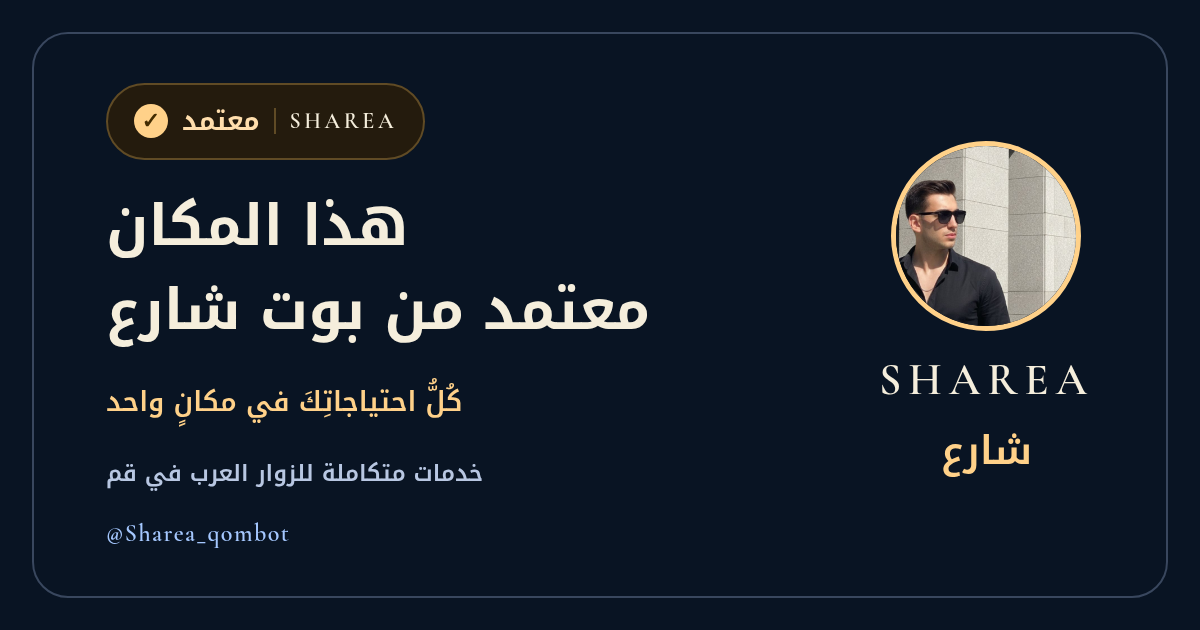
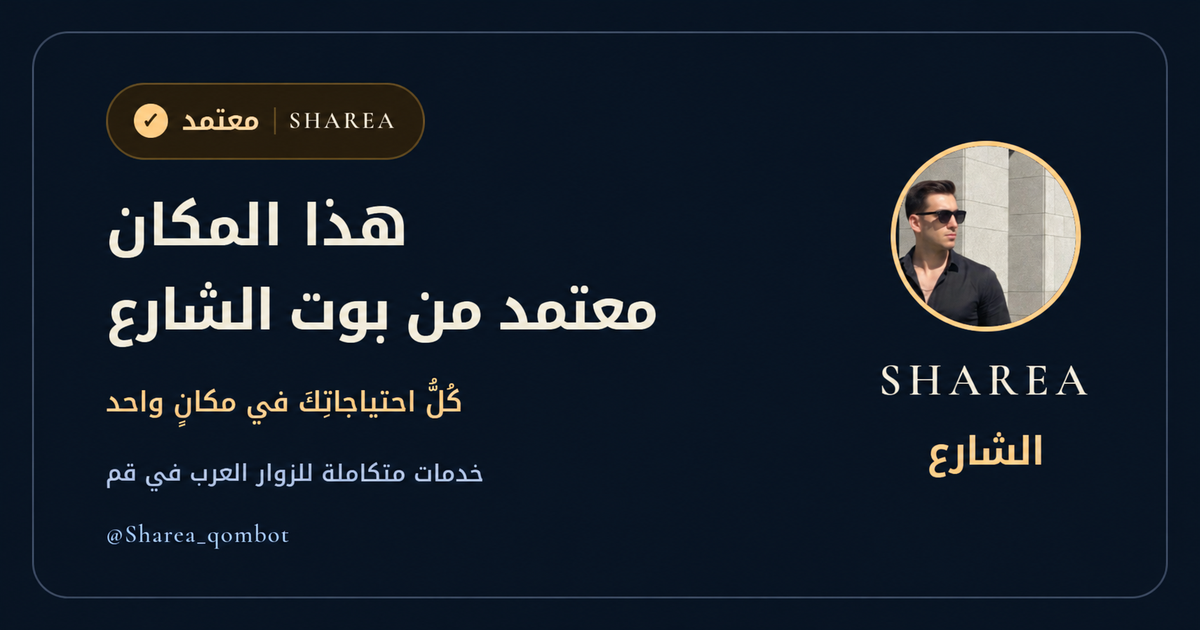
Replace standalone شارع across the site

diff --git a/index.html b/index.html
@@ -3,10 +3,10 @@
   <head>
     <meta charset="UTF-8" />
     <meta name="viewport" content="width=device-width, initial-scale=1.0, viewport-fit=cover" />
-    <title>شارع · Sharea — خدمات للطلاب الجامعيين والزوار في قم</title>
+    <title>الشارع · Sharea — خدمات للطلاب الجامعيين والزوار في قم</title>
     <meta
       name="description"
-      content="خدمات متكاملة للطلاب الجامعيين والزوار العرب في قم عبر بوت شارع على تيليغرام، تشمل الدعم الدراسي والتنقّل والهدايا وتحويل العملات وخدمات أخرى."
+      content="خدمات متكاملة للطلاب الجامعيين والزوار العرب في قم عبر بوت الشارع على تيليغرام، تشمل الدعم الدراسي والتنقّل والهدايا وتحويل العملات وخدمات أخرى."
     />
     <meta name="theme-color" content="#091423" />
     <meta name="color-scheme" content="dark" />
@@ -14,28 +14,28 @@
     <!-- Absolute, versioned URLs help social crawlers fetch the current preview. -->
     <link rel="canonical" href="https://aslamyh0660.github.io/sharea-landing-page/" />
     <meta property="og:type" content="website" />
-    <meta property="og:site_name" content="Sharea · شارع" />
+    <meta property="og:site_name" content="Sharea · الشارع" />
     <meta property="og:url" content="https://aslamyh0660.github.io/sharea-landing-page/" />
-    <meta property="og:title" content="شارع · Sharea — خدمات للطلاب الجامعيين والزوار في قم" />
+    <meta property="og:title" content="الشارع · Sharea — خدمات للطلاب الجامعيين والزوار في قم" />
     <meta
       property="og:description"
-      content="خدمات متكاملة للطلاب الجامعيين والزوار العرب في قم عبر بوت شارع على تيليغرام، تشمل الدعم الدراسي والتنقّل والهدايا وتحويل العملات وخدمات أخرى."
+      content="خدمات متكاملة للطلاب الجامعيين والزوار العرب في قم عبر بوت الشارع على تيليغرام، تشمل الدعم الدراسي والتنقّل والهدايا وتحويل العملات وخدمات أخرى."
     />
     <meta property="og:image" content="https://aslamyh0660.github.io/sharea-landing-page/assets/sharea-preview-v2.png" />
     <meta property="og:image:secure_url" content="https://aslamyh0660.github.io/sharea-landing-page/assets/sharea-preview-v2.png" />
     <meta property="og:image:type" content="image/png" />
     <meta property="og:image:width" content="1200" />
     <meta property="og:image:height" content="630" />
-    <meta property="og:image:alt" content="شارة اعتماد شارع الخضراء وخدمات الطلاب والزوار العرب في قم" />
+    <meta property="og:image:alt" content="شارة اعتماد الشارع الخضراء وخدمات الطلاب والزوار العرب في قم" />
     <meta property="og:locale" content="ar_AR" />
     <meta name="twitter:card" content="summary_large_image" />
-    <meta name="twitter:title" content="شارع · Sharea — خدمات للطلاب الجامعيين والزوار في قم" />
+    <meta name="twitter:title" content="الشارع · Sharea — خدمات للطلاب الجامعيين والزوار في قم" />
     <meta
       name="twitter:description"
-      content="خدمات متكاملة للطلاب الجامعيين والزوار العرب في قم عبر بوت شارع على تيليغرام، تشمل الدعم الدراسي والتنقّل والهدايا وتحويل العملات وخدمات أخرى."
+      content="خدمات متكاملة للطلاب الجامعيين والزوار العرب في قم عبر بوت الشارع على تيليغرام، تشمل الدعم الدراسي والتنقّل والهدايا وتحويل العملات وخدمات أخرى."
     />
     <meta name="twitter:image" content="https://aslamyh0660.github.io/sharea-landing-page/assets/sharea-preview-v2.png" />
-    <meta name="twitter:image:alt" content="شارة اعتماد شارع الخضراء وخدمات الطلاب والزوار العرب في قم" />
+    <meta name="twitter:image:alt" content="شارة اعتماد الشارع الخضراء وخدمات الطلاب والزوار العرب في قم" />
 
     <link rel="icon" type="image/svg+xml" href="/assets/favicon.svg" />
     <link rel="icon" type="image/png" sizes="32x32" href="/assets/favicon-32.png" />

diff --git a/src/config.ts b/src/config.ts
@@ -27,27 +27,27 @@ export const TELEGRAM_HANDLE = "@Sharea_qombot"
 
 export const BRAND = {
   latin: "SHAREA",
-  arabic: "شارع",
+  arabic: "الشارع",
   slogan: "كُلُّ احتياجاتِكَ في مكانٍ واحد",
   tagline: "خدمات متكاملة للزوار العرب في قم",
 }
 
 export const HERO = {
   badge: "معتمد",
-  headline: "هذا المكان معتمد من بوت شارع",
+  headline: "هذا المكان معتمد من بوت الشارع",
   support:
-    "وجود رمز شارع الرسمي في هذا المكان يعني أنه من الأماكن المعتمدة لدينا",
+    "وجود رمز الشارع الرسمي في هذا المكان يعني أنه من الأماكن المعتمدة لدينا",
   reassurance: "استفد من خدمات هذا المكان براحة بال وثقة",
-  cta: "ادخل إلى بوت شارع",
+  cta: "ادخل إلى بوت الشارع",
 }
 
 export const SECTION_TITLES = {
-  services: "خدمات شارع",
+  services: "خدمات الشارع",
   servicesIntro: "سبع خدمات تحتاجها أثناء زيارتك لقم، كلها في بوت واحد",
-  trust: "لماذا شارع؟",
+  trust: "لماذا الشارع؟",
   // Temporarily disabled with the like section; kept for rollback:
-  // like: "هل أعجبتك صفحة شارع؟",
-  cta: "ابدأ الآن مع شارع",
+  // like: "هل أعجبتك صفحة الشارع؟",
+  cta: "ابدأ الآن مع الشارع",
   ctaIntro: "افتح البوت واطلب ما تحتاجه مباشرة، أو انضم إلى مجموعة الواتساب",
 }
 
@@ -110,7 +110,7 @@ export const TRUST_VALUES: TrustValue[] = [
 ]
 
 export const FOOTER = {
-  line: "جميع الخدمات في قم — شارع",
+  line: "جميع الخدمات في قم — الشارع",
 }
 
 /** localStorage keys */

diff --git a/src/components/site/CtaSection.tsx b/src/components/site/CtaSection.tsx
@@ -174,7 +174,7 @@ export function StickyCtaBar() {
         {/* Temporarily disabled like shortcut; kept here for rollback.
         <a
           href="#like"
-          aria-label="أضِف إعجاباً بصفحة شارع"
+          aria-label="أضِف إعجاباً بصفحة الشارع"
           className="state-layer relative inline-grid size-12 shrink-0 place-items-center rounded-full text-on-surface-variant outline-none focus-ring"
         >
           <Icon name="favorite" size={22} />

diff --git a/src/components/site/LogoLockup.tsx b/src/components/site/LogoLockup.tsx
@@ -36,7 +36,7 @@ export function LogoLockup({
       <span className={cn("relative inline-grid shrink-0 place-items-center rounded-full", s.img)}>
         <img
           src={asset("portrait.jpg")}
-          alt="شعار شارع: الصورة الرمزية الرسمية لبوت شارع"
+          alt="شعار الشارع: الصورة الرمزية الرسمية لبوت الشارع"
           width={96}
           height={96}
           className="size-full rounded-full object-cover"

diff --git a/src/components/site/TopBar.tsx b/src/components/site/TopBar.tsx
@@ -42,7 +42,7 @@ export function TopBar() {
           href={TELEGRAM_URL}
           target="_blank"
           rel="noopener noreferrer"
-          aria-label="افتح بوت شارع على تيليغرام"
+          aria-label="افتح بوت الشارع على تيليغرام"
           className={cn(
             "state-layer relative inline-grid size-11 cursor-pointer place-items-center rounded-full",
             "text-on-surface-variant outline-none focus-ring"

diff --git a/src/components/site/LikeSection.tsx b/src/components/site/LikeSection.tsx
@@ -71,7 +71,7 @@
 //           <Toggle
 //             className="like-toggle size-14 rounded-full"
 //             aria-pressed={state.liked}
-//             aria-label="أضِف إعجاباً بصفحة شارع"
+//             aria-label="أضِف إعجاباً بصفحة الشارع"
 //             disabled={busy || state.status !== "ready"}
 //             onClick={onToggle}
 //           >
